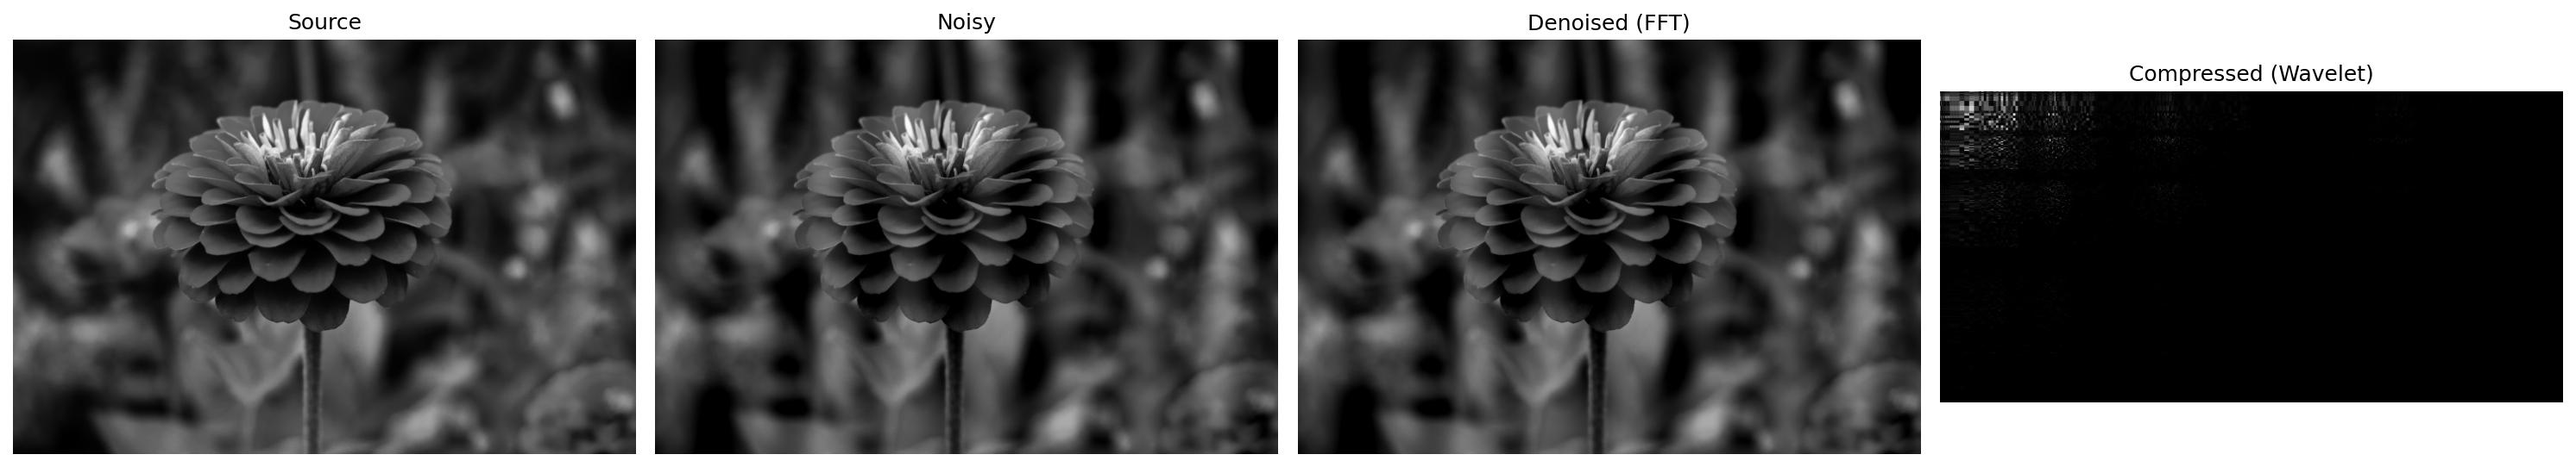
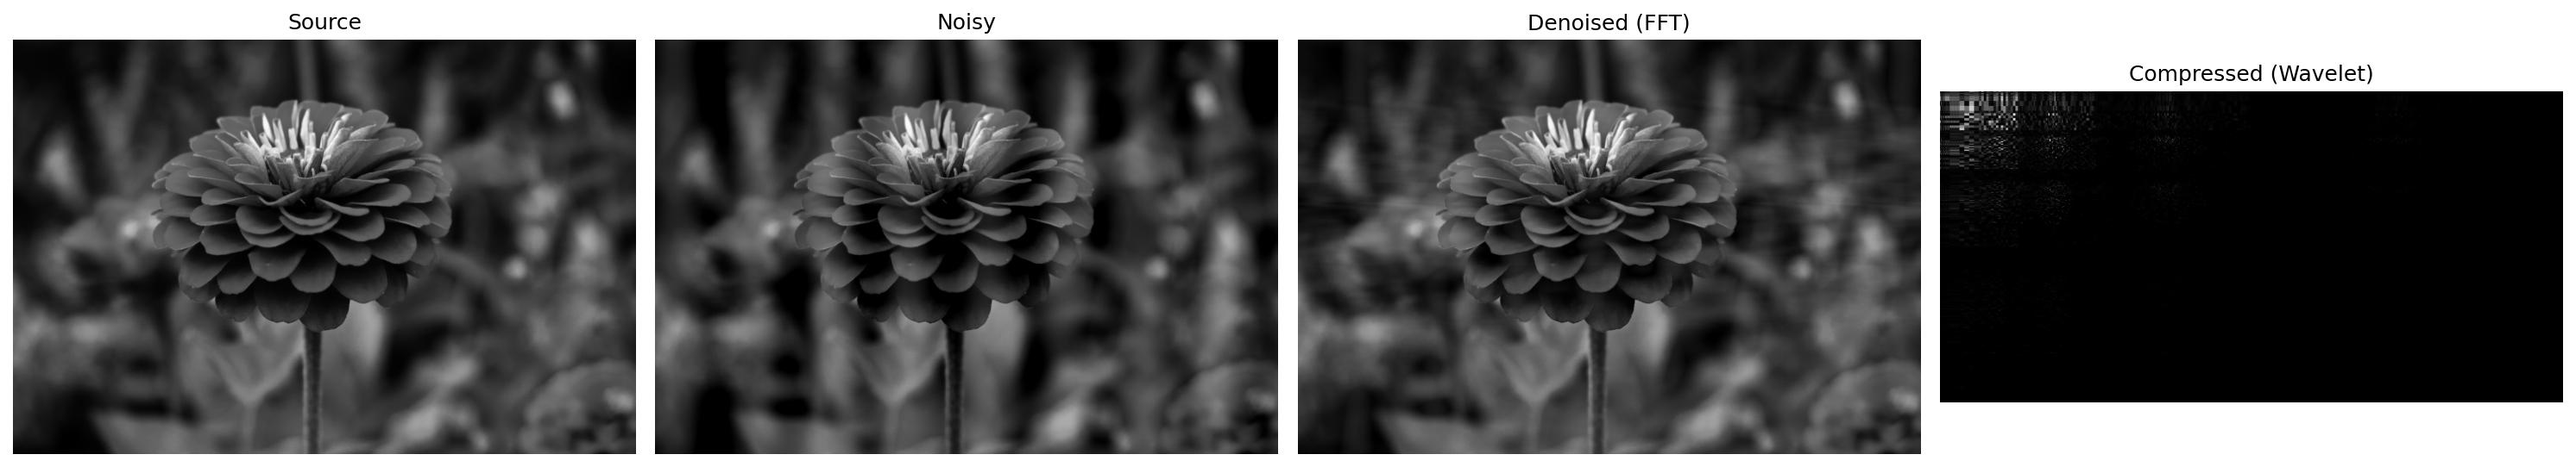
done

Changed region(s): [[0.4985, 0.4428, 0.7477, 0.9742], [0.4985, 0.0886, 0.7477, 0.4133]]

diff --git a/lab3/homework3.py b/lab3/homework3.py
@@ -23,13 +23,28 @@ class FourierTransform:
         return noisy_image
     
     @staticmethod
-    def fft_denoise(image, threshold=50):
+    def fft_denoise(image, threshold=50, noise_frequency=8):
+        rows, cols = image.shape
+        
         f = fftpack.fft2(image)
         fshift = fftpack.fftshift(f)
         
+        crow, ccol = rows // 2, cols // 2
+        
+        filter_mask = np.ones((rows, cols), dtype=np.float32)
+        
+        for i in range(rows):
+            for j in range(cols):
+                freq_x = j - ccol
+                
+                if abs(freq_x) == noise_frequency or abs(freq_x) == cols - noise_frequency:
+                    filter_mask[i, j] = 0.0
+        
         magnitude = np.abs(fshift)
-        mask = magnitude > threshold
-        fshift_filtered = fshift * mask
+        threshold_mask = magnitude > threshold
+        combined_mask = filter_mask * threshold_mask
+        
+        fshift_filtered = fshift * combined_mask
         
         f_ishift = fftpack.ifftshift(fshift_filtered)
         img_back = fftpack.ifft2(f_ishift)
